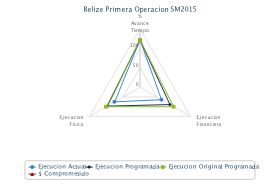
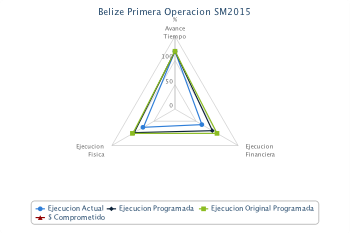
Refactory word export Hitos

diff --git a/dashboard/graphs/files/options-Belize.js b/dashboard/graphs/files/options-Belize.js
@@ -1,1 +1,1 @@
-options = {chart: {polar: true,type: 'line',marginLeft: 10,marginRight: 10,},title: {text: 'Belize Primera Operacion SM2015'},pane: {size: '85%'},xAxis: {categories: ['% Avance Tiempo', 'Ejecucion Financiera', 'Ejecucion Fisica'],tickmarkPlacement: 'on',lineWidth: 0,labels: {style: {width: '30px'}}},yAxis: {gridLineInterpolation: 'polygon',lineWidth: 0,min: 0,width: 30},tooltip: {shared: true,pointFormat: '<span style="color:{series.color}">{series.name}: <b>{point.y}% </b><br/>'},exporting: {enabled: true},credits: {enabled: false},series: [{'data': [122.0, 64.0, 75.0], 'name': 'Ejecucion Actual', 'pointPlacement': 'on'}, {'data': [122.0, 89.0, 97.0], 'name': 'Ejecucion Programada', 'pointPlacement': 'on'}, {'data': [122.0, 100.0, 100.0], 'name': 'Ejecucion Original Programada', 'pointPlacement': 'on'}, {'data': ['-', '-', '-'], 'name': '$ Comprometido', 'pointPlacement': 'on'}]}
+options = {chart: {polar: true,type: 'line',marginLeft: 10,marginRight: 10,},title: {text: 'Belize Primera Operacion SM2015'},pane: {size: '85%'},xAxis: {categories: ['% Avance Tiempo', 'Ejecucion Financiera', 'Ejecucion Fisica'],tickmarkPlacement: 'on',lineWidth: 0,labels: {style: {width: '30px'}}},yAxis: {gridLineInterpolation: 'polygon',lineWidth: 0,min: 0,width: 30},tooltip: {shared: true,pointFormat: '<span style="color:{series.color}">{series.name}: <b>{point.y}% </b><br/>'},exporting: {enabled: true},credits: {enabled: false},series: [{'data': [119.0, 64.0, 75.0], 'name': 'Ejecucion Actual', 'pointPlacement': 'on'}, {'data': [119.0, 89.0, 97.0], 'name': 'Ejecucion Programada', 'pointPlacement': 'on'}, {'data': [119.0, 100.0, 100.0], 'name': 'Ejecucion Original Programada', 'pointPlacement': 'on'}, {'data': ['-', '-', '-'], 'name': '$ Comprometido', 'pointPlacement': 'on'}]}

diff --git a/dashboard/tables/views_export.py b/dashboard/tables/views_export.py
@@ -1,6 +1,9 @@
 # coding: utf-8
+from datetime import date
 import codecs
+from docx import *
 from django.contrib.auth.decorators import login_required
+from django.utils.translation import ugettext as _
 from django.template.loader import render_to_string
 from django.shortcuts import HttpResponse
 from django.template import RequestContext
@@ -9,7 +12,7 @@ from graphs.models import TriangleGraph
 from core.models import Country
 
 @login_required
-def render_export_hitos_and_avances(request, country_slug):
+def render_export_hitos_and_avances2(request, country_slug):
     context = RequestContext(request)
     hitos = Hito.objects.filter(country__slug=country_slug)
     estados_actuais = EstadoActual.objects.all()
@@ -40,4 +43,117 @@ def render_export_hitos_and_avances(request, country_slug):
     response['Content-Encoding'] = 'UTF-8'
     response['Content-type'] = 'text/html; charset=UTF-8'
     response.write(rendered.encode('utf8'))
+    return response
+
+
+@login_required
+def render_export_hitos_and_avances(request, country_slug):
+    context = RequestContext(request)
+    hitos = Hito.objects.filter(country__slug=country_slug)
+    estados_actuais = EstadoActual.objects.all()
+    country = Country.objects.get(slug=country_slug)
+    options_estados_actuais = {}
+    hitos_estados_actuais = {}
+    triangle_path, triangle_file_name = TriangleGraph.export_graph(country=country)
+    operation = Operation.objects.get(country=country)
+    for estado in estados_actuais:
+        options_estados_actuais.update({
+            "{id}".format(id=estado.id): str(estado.name)
+        })
+
+    for hito in hitos:
+        options_estados_actuais.update({
+            'selected': str(hito.estado_actual.id)
+        })
+        hito.options_estados_actuais = options_estados_actuais
+
+    avances = AvanceFisicoFinanciero.objects.filter(country=country)
+
+    # DOCX
+    relationships = relationshiplist()
+    document = newdocument()
+    body = document.xpath('/w:document/w:body', namespaces=nsprefixes)[0]
+
+    # Add BID logo
+    relationships, picpara = picture(relationships, 'logo-bid.png', '')
+    body.append(picpara)
+
+    # First Heading
+    date_today_str = date.today().strftime("%d de {MONTH} de %Y").lstrip("0")
+    month_translated = _(date.today().strftime("%B"))
+    date_today_str = date_today_str.replace("{MONTH}", month_translated)
+    body.append(paragraph([(u"División de Protección Social y Salud, SCL/SPH", 'b')]))
+    body.append(paragraph([(u"Iniciativa Salud Mesoamérica 2015, SM2015", 'b')]))
+    body.append(paragraph([(u"Conclusiones de la reunión realizada el: {0}".format(date_today_str), 'b')]))
+    body.append(paragraph(u''))
+ 
+    # Second Heading
+    body.append(paragraph([(u"Operación: {0}".format(operation.name), 'b')]))
+    body.append(paragraph([(u"Tipo de Reunión: Seguimiento Mensual de la Ejecución", 'b')]))
+    body.append(paragraph([(u"Participantes: {0}, Ferdinando Regalia, Emma Iriarte".format(context.get('user').get_full_name()), 'b')]))
+    
+    if avances:
+        avance = avances[0]
+        # Table Avances
+        body.append(heading(u"AVANCE FISICO Y FINANCIERO", 1))
+        fecha_de_actualization_str = avance.fecha_de_actualizacion.strftime("%d de {MONTH} de %Y").lstrip("0")
+        month_translated = _(avance.fecha_de_actualizacion.strftime("%B"))
+        fecha_de_actualization_str = fecha_de_actualization_str.replace("{MONTH}", month_translated)
+        tbl_rows = [[u'Cual es la fecha en que la información que está registrando fue actualizada', unicode(avance.avance_fisico_planificado)],
+                    [u'Avances Fiscos Planificados (Meta Ejecución)', unicode(avance.avance_fisico_planificado)],
+                    [u'Avances Físicos reales (Avance en la ejecución real segun el PEP)', unicode(avance.avance_fisico_real)],
+                    [u'Avances financieros planificados (Ejecución financiera planificados)', unicode(avance.avance_financiero_planificado)],
+                    [u'Avances financieros actuales (Ejecución financiera real según el estados financieros del ejecutor hasta la fecha (%))', unicode(avance.avance_financiero_actual)],
+                    [u'Monto total desembolsado (BID a PAIS)', unicode(avance.monto_desembolsado)],
+                   ]
+        body.append(table(tbl_rows, heading=False))
+
+
+    # Add Triangle Graph
+    body.append(heading(u"Gráficos del Tablero de Control", 1))
+    relationships, picpara = picture(relationships, triangle_file_name, '')
+    body.append(picpara)
+
+    # HITOS
+    body.append(heading(u"ALERTAS TEMPRANAS Y ESTADO DE LOS HITOS", 1))
+    tbl_rows = [[u'Indicador de Pago', u'Hito', u'Trimestre', u'Audiencia', u'Estado Actual', u'Alerta/Notas', u'Recomendación', u'Acuerdo']]
+    for hito in hitos:
+        audiencias = []
+        for audiencia in hito.audiencia.all():
+            audiencias.append(audiencia.name)
+
+        tbl_rows.append([
+            hito.indicador_de_pago,
+            hito.hito,
+            hito.quarter.name,
+            ", ".join(audiencias),
+            hito.estado_actual.name,
+            hito.alerta_notas or '',
+            hito.recomendacion or '',
+            hito.acuerdo or ''
+        ])
+
+    body.append(table(tbl_rows, heading=False))
+
+
+    title = 'Hitos e Avances - {0}'.format(country.name)
+    creator = 'SM2015 Dashboard'
+    coreprops = coreproperties(title=title, creator=creator, subject='', keywords=[])
+    appprops = appproperties()
+    contenttypes_v = contenttypes()
+    websettings_v = websettings()
+    wordrelationships_v = wordrelationships(relationships)
+
+    # Save our document
+    path = "{root}/tables/files/{country_slug}_hitos_y_avances.docx".format(country_slug=country_slug, root=os.path.realpath('./'))
+    savedocx(document, coreprops, appprops, contenttypes_v, websettings_v,
+             wordrelationships_v, path)
+
+    file_docx = open(path, 'r')
+    response = HttpResponse(mimetype='text/html')
+    response['Content-Disposition'] = 'attachment; filename={country_slug}_hitos_y_avances.docx'.format(country_slug=country_slug)
+    response['Content-Encoding'] = 'UTF-8'
+    response['Content-type'] = 'text/html; charset=UTF-8'
+    response.write(file_docx.read())
+    file_docx.close()
     return response

diff --git a/dashboard/graphs/models.py b/dashboard/graphs/models.py
@@ -65,7 +65,7 @@ class TriangleGraph(object):
         path_chart = "{root}/{file_name}".format(root=os.path.realpath('./'), file_name=file_name)
 
         os.system("phantomjs {root}/website/static/js/highcharts/highcharts-convert.js "\
-                "-infile {options_path} -outfile {path_chart}  -scale 5 -width 280"
+                "-infile {options_path} -outfile {path_chart}  -scale 1 -width 350"
                 .format(root=os.path.realpath('./'), country_name=country.slug, path_chart=path_chart, options_path=path_options_highcharts))
         return path_chart, file_name
 
